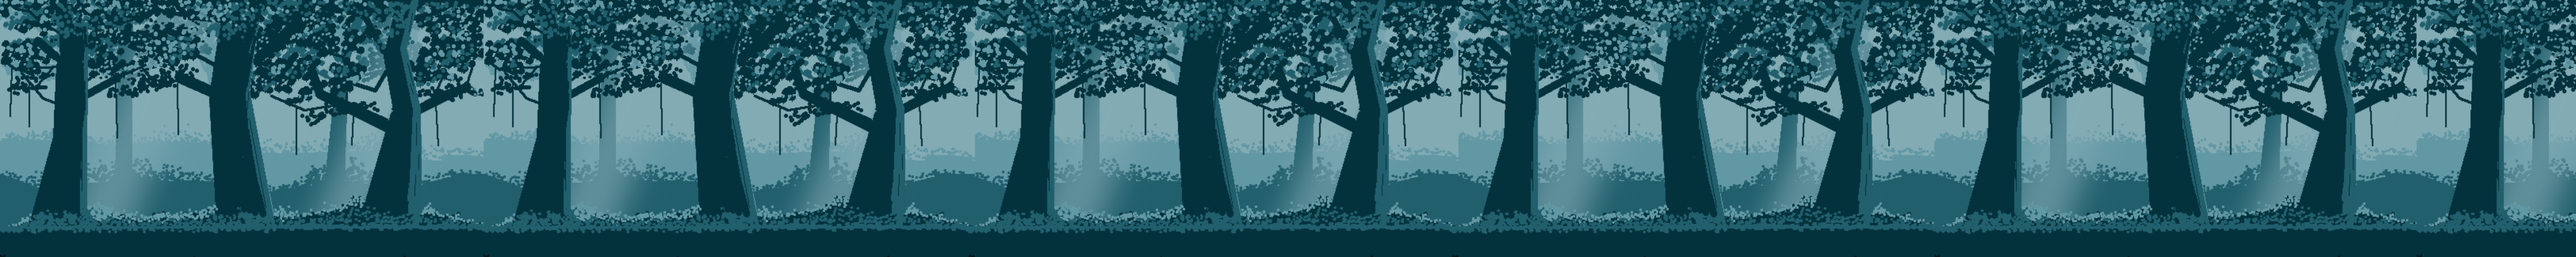
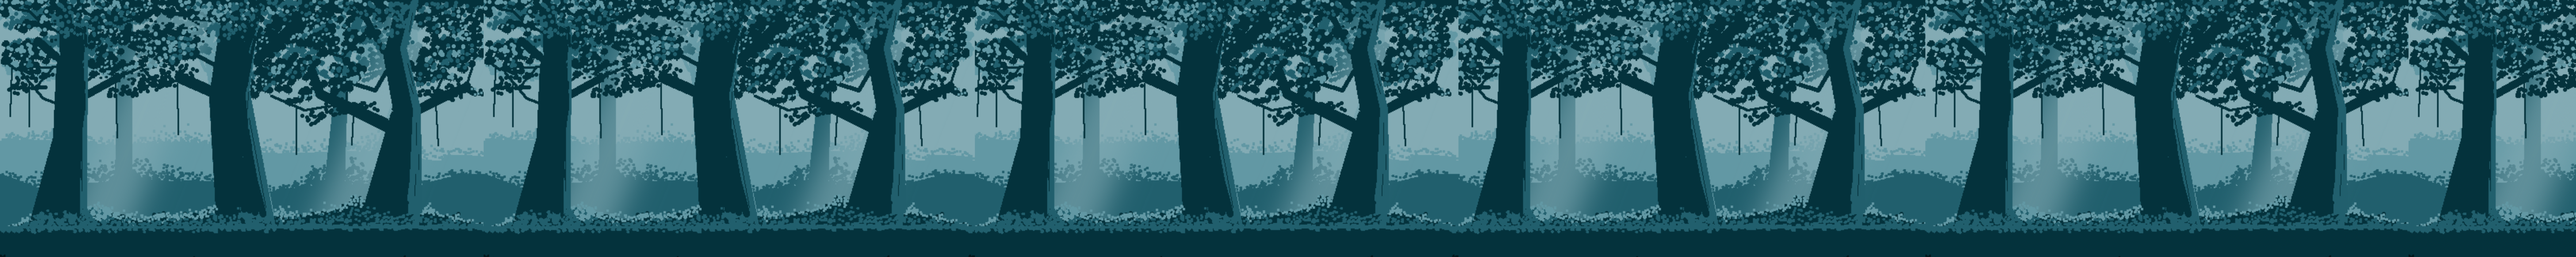
level3 without enemies

Changed region(s): [[0.5625, 0.0, 1.0, 0.9062]]

diff --git a/can you save them!.cpp b/can you save them!.cpp
@@ -360,15 +360,15 @@ void Game_Play(RenderWindow& window)
     background.setScale(1.1, 1.35);
 
     Texture level3texture;
-    level3texture.loadFromFile("Untitled design.png");
+    level3texture.loadFromFile("level3_background.png");
  
 
     RectangleShape rectangle(sf::Vector2f(100.f, 100.f));
-    rectangle.setPosition(650.f, 750.f); 
+    rectangle.setPosition(6450.f, 750.f); 
     rectangle.setFillColor(sf::Color::White); // Fill color
 
     RectangleShape reclevel3(sf::Vector2f(100.f, 100.f));
-    reclevel3.setPosition(670.f, 750.f); 
+    reclevel3.setPosition(6470.f, 750.f); 
     reclevel3.setFillColor(sf::Color::Red); // Fill color
 
 
